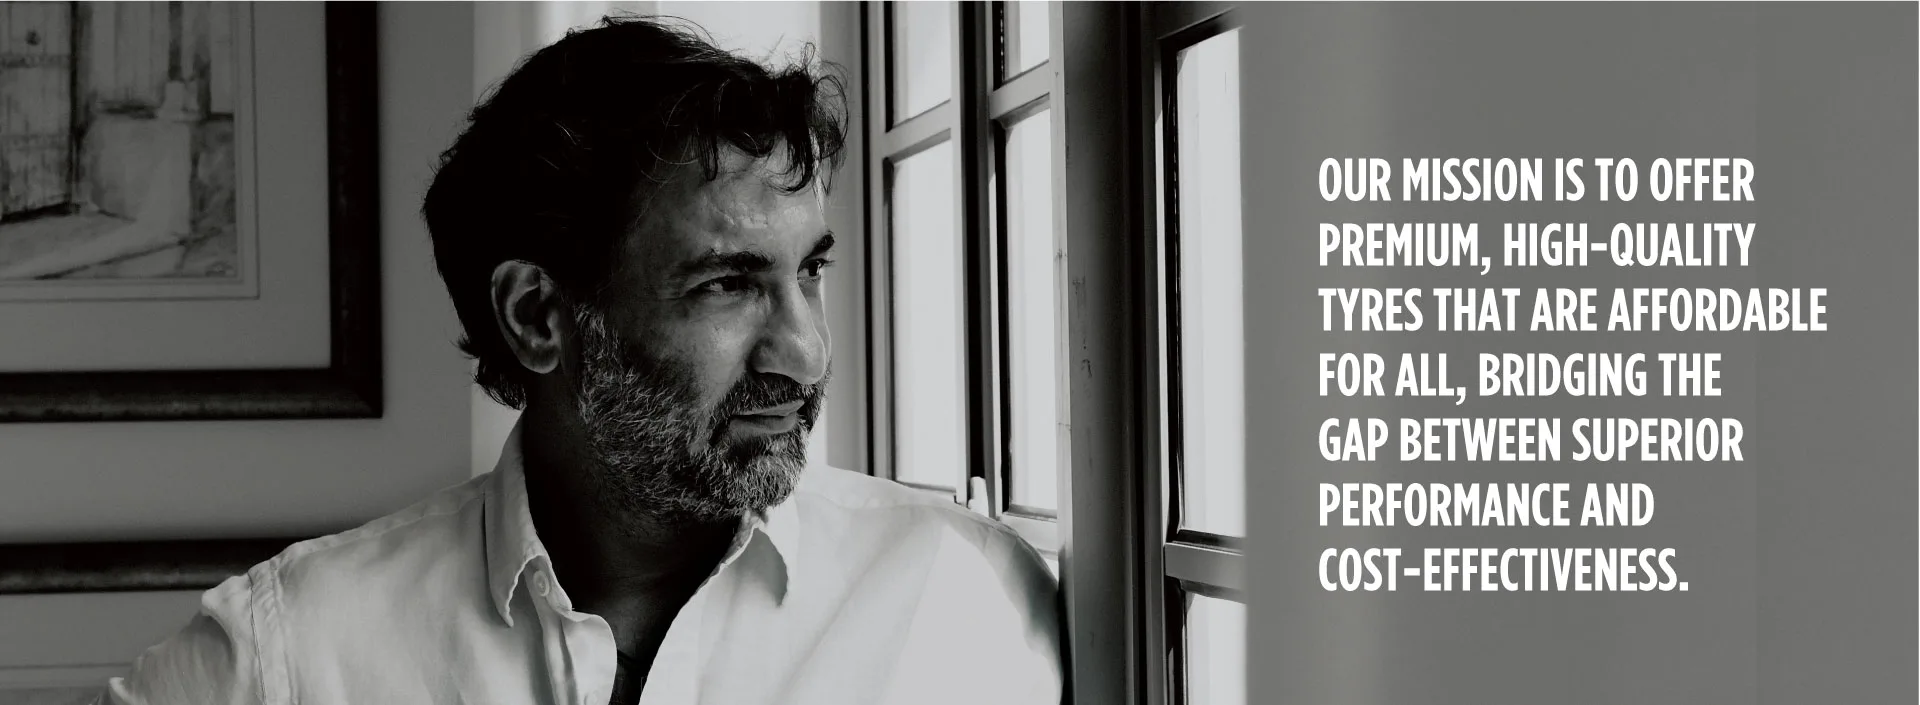
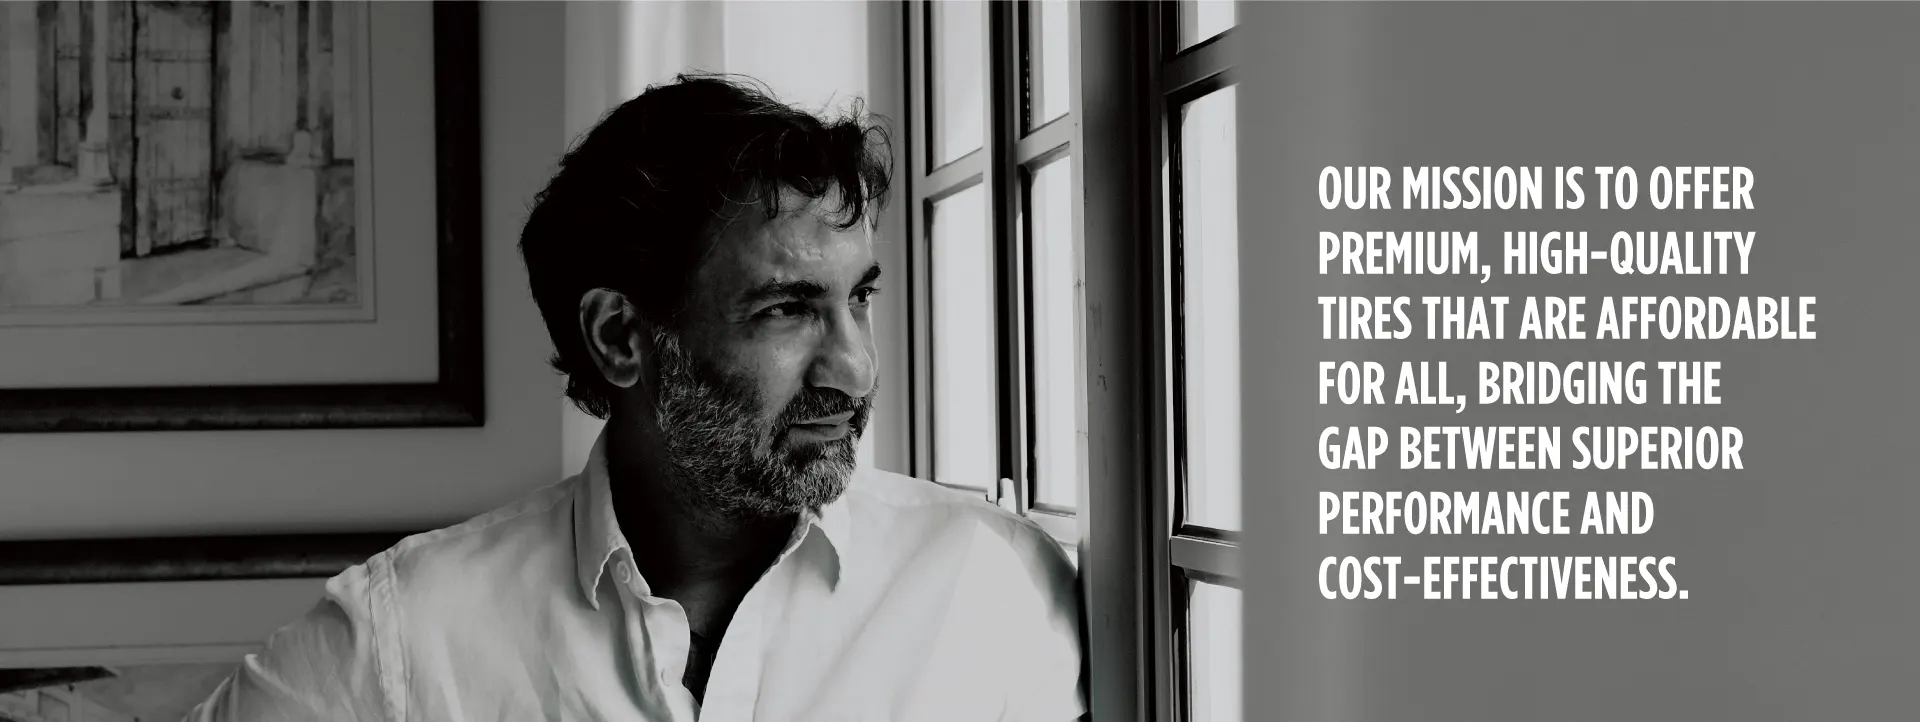
waranty page update

diff --git a/laravel-core/resources/views/pages/warranty-radar-eu.blade.php b/laravel-core/resources/views/pages/warranty-radar-eu.blade.php
@@ -1,9 +1,8 @@
 <x-guest-layout>
 <!-- Page Title
     ============================================= -->
-    <x-page-title image-url="{{ asset('images/Warranty-Banner--radar-eu.webp') }}" container="true" page-title="" class="page-title--left el-height-60 uppercase" />
+    <x-page-title image-url="{{ asset('images/Warranty-Banner--radar-us.webp') }}" container="true" page-title="" class="page-title--left el-height-60 uppercase" />
     
-	
 
 	<!-- Content
 	============================================= -->
@@ -11,18 +10,20 @@
 		<div class="section bg-white pt-0">
 			<div class="container">
 				<div class="grid ">
-					<div class="col-md-12 col-bleed-y center"><h2>LIMITED WARRANTY - EUROPE</h2></div>
+					<div class="col-md-12 col-bleed-y center"><h2>LIMITED WARRANTY - NORTH AMERICA</h2></div>
 				</div>
 			</div>
 			<div class="container">
 				<div class="grid">
 					<div class="col-md-12 col-bleed-y ">
-						<h3 class="dark-100">LIMITED WARRANTY - EUROPE</h3>
+						<h3 class="dark-100">THE RADAR PROTECT PROGRAM OFFERS THE BELOW BENEFITS:</h3>
 						<ul class="text-md bullet-inside ">
 							<li class="mb-xxs-1">Workmanship and Materials Limited Warranty</li>
-							<li>Road Hazard Warranty<sup>1</sup></li>
+							<li>Treadwear Limited Warranty<sup>1</sup></li>
+							<li>Road hazard warranty<sup>1</sup></li>
+							<li>30-Day Satisfaction Guarantee<sup>1</sup></li>
 						</ul>
-						<p class="text-sm"><sup>1</sup> These warranties are offered on selected ranges. Please refer to the Buyers Warranty Guide for the most updated list of eligible ranges.</p>
+						<p class="text-sm"><sup>1</sup>  These warranties are offered on selected ranges. Please refer to the Quick Reference Guide for the most updated list of eligible ranges.</p>
 					</div>
 				</div>
 			</div>
@@ -33,10 +34,37 @@
 					<div class="col-md-12 col-bleed-y ">
 						<h3 class=" dark-100">WARRANTY INFORMATION</h3>
 						<ul class="text-md no-bullets li-icons">
-							<li class="mb-xxs-1"><a href="{{ asset('storage/colletrals/Radar_Tyres_Quick_Reference_Guide_A5--radar-eu.pdf') }}"><x-icon-download-ico /> Buyers Warranty Guide</a> – Passenger and Light Truck replacement tyres purchased after 1<sup>st</sup>	 January, 2024</li>
-							<li class="mb-xxs-1"><a href="{{ asset('storage/colletrals/Radar_Tyres_Limited_Warranty_Booklet--radar-eu.pdf') }}"><x-icon-download-ico /> Limited Warranty Booklet</a> - Passenger and Light Truck replacement tyres purchased after 1<sup>st</sup> January, 2024</li>
-							<li><a href="{{ asset('storage/colletrals/Claim_Form - CL01_RA-EU_Tyres--radar-eu.pdf') }}"><x-icon-download-ico /> Claim Form</a> - Passenger and Light Truck replacement tyres purchased after  1<sup>st</sup> January, 2024</li>
+							<li class="mb-xxs-1"><a href="{{ asset('storage/colletrals/Radar_Quick_Reference_Guide_202406.pdf') }}"><x-icon-download-ico /> Limited Warranty Quick Reference Guide</a> – Passenger and Light Truck replacement tires purchased after October 1, 2020</li>
+							<li class="mb-xxs-1"><a href="{{ asset('storage/colletrals/Radar_Warranty_Flyer.pdf') }}"><x-icon-download-ico /> Limited Warranty Booklet</a> - Passenger and Light Truck replacement tires purchased after October 1, 2020</li>
+							<li><a href="{{ asset('storage/colletrals/Claim_Form - CL01_RA-EU_Tyres--radar-eu.pdf') }}"><x-icon-download-ico /> Limited Warranty</a> - Passenger and Light Truck replacement tires purchased before October 1, 2020</li>
 						</ul>
+					</div>
+				</div>
+			</div>
+		</div>
+		<div class="section bg-white">
+			<div class="container">
+				<div class="grid">
+					<div class="col-md-12 col-bleed-y ">
+						<h3 class=" dark-100 uppercase">Download center</h3>
+						<ul class="text-md no-bullets li-icons">
+							<li class="mb-xxs-1"><a href="{{ asset('storage/colletrals/Radar_Limited Warranty Manual.pdf') }}"><x-icon-download-ico /> Limited Warranty Manual</a></li>
+							<li class="mb-xxs-1"><a href="{{ asset('storage/colletrals/3Retailer Registration Form_Radar Protect Program_REG01 (RANA).xlsx') }}"><x-icon-download-ico /> 30-Day Satisfaction Guarantee_Retailer Registration Form_REG01(RA/NA)</a></li>
+							<li class="mb-xxs-1"><a href="{{ asset('storage/colletrals/Tire Installation Form - IN01 (NARA).pdf') }}"><x-icon-download-ico /> Tire Installation Form_IN01(RA/NA)</a></li>
+							<li class="mb-xxs-1"><a href="{{ asset('storage/colletrals/Tire Mounting & Rotation Service Form - RR01 (NARA).pdf') }}"><x-icon-download-ico /> Tire Mounting and Rotation Form_RR01(RA/NA)</a></li>
+							<li class="mb-xxs-1"><a href="{{ asset('storage/colletrals/Claim Form - CL01 (NARA).pdf') }}"><x-icon-download-ico /> Claim Form_CL01(RA/NA)</a></li>
+						</ul>
+					</div>
+				</div>
+			</div>
+		</div>
+		
+		<div class="section bg-gray">
+			<div class="container">
+				<div class="grid">
+					<div class="col-md-12 col-bleed-y ">
+						<h3 class=" dark-100 uppercase">Contact Us</h3>
+						<p>For any additional assistance, you can contact us via email at <a href="mailto:claims@omni-united.com">claims@omni-united.com</a> or call us at 800-725-1482 (Business Hrs 9am - 6pm, Monday – Friday)</p>
 					</div>
 				</div>
 			</div>
